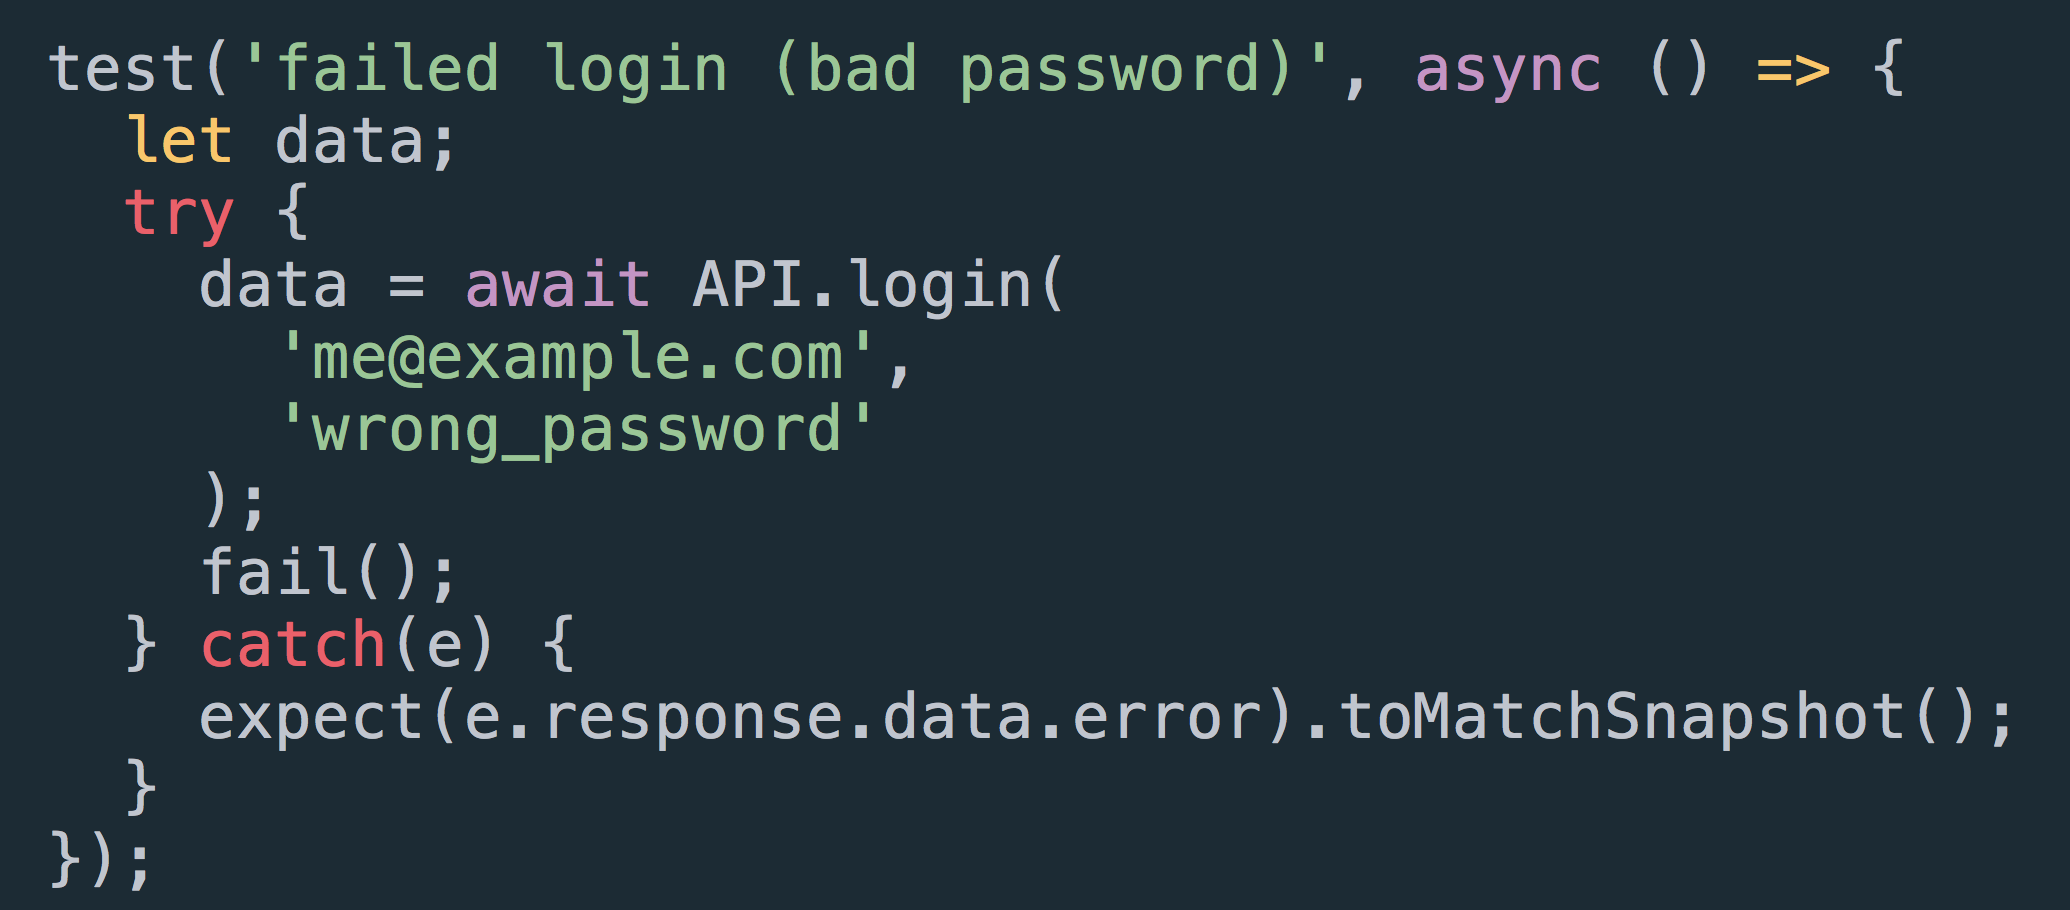
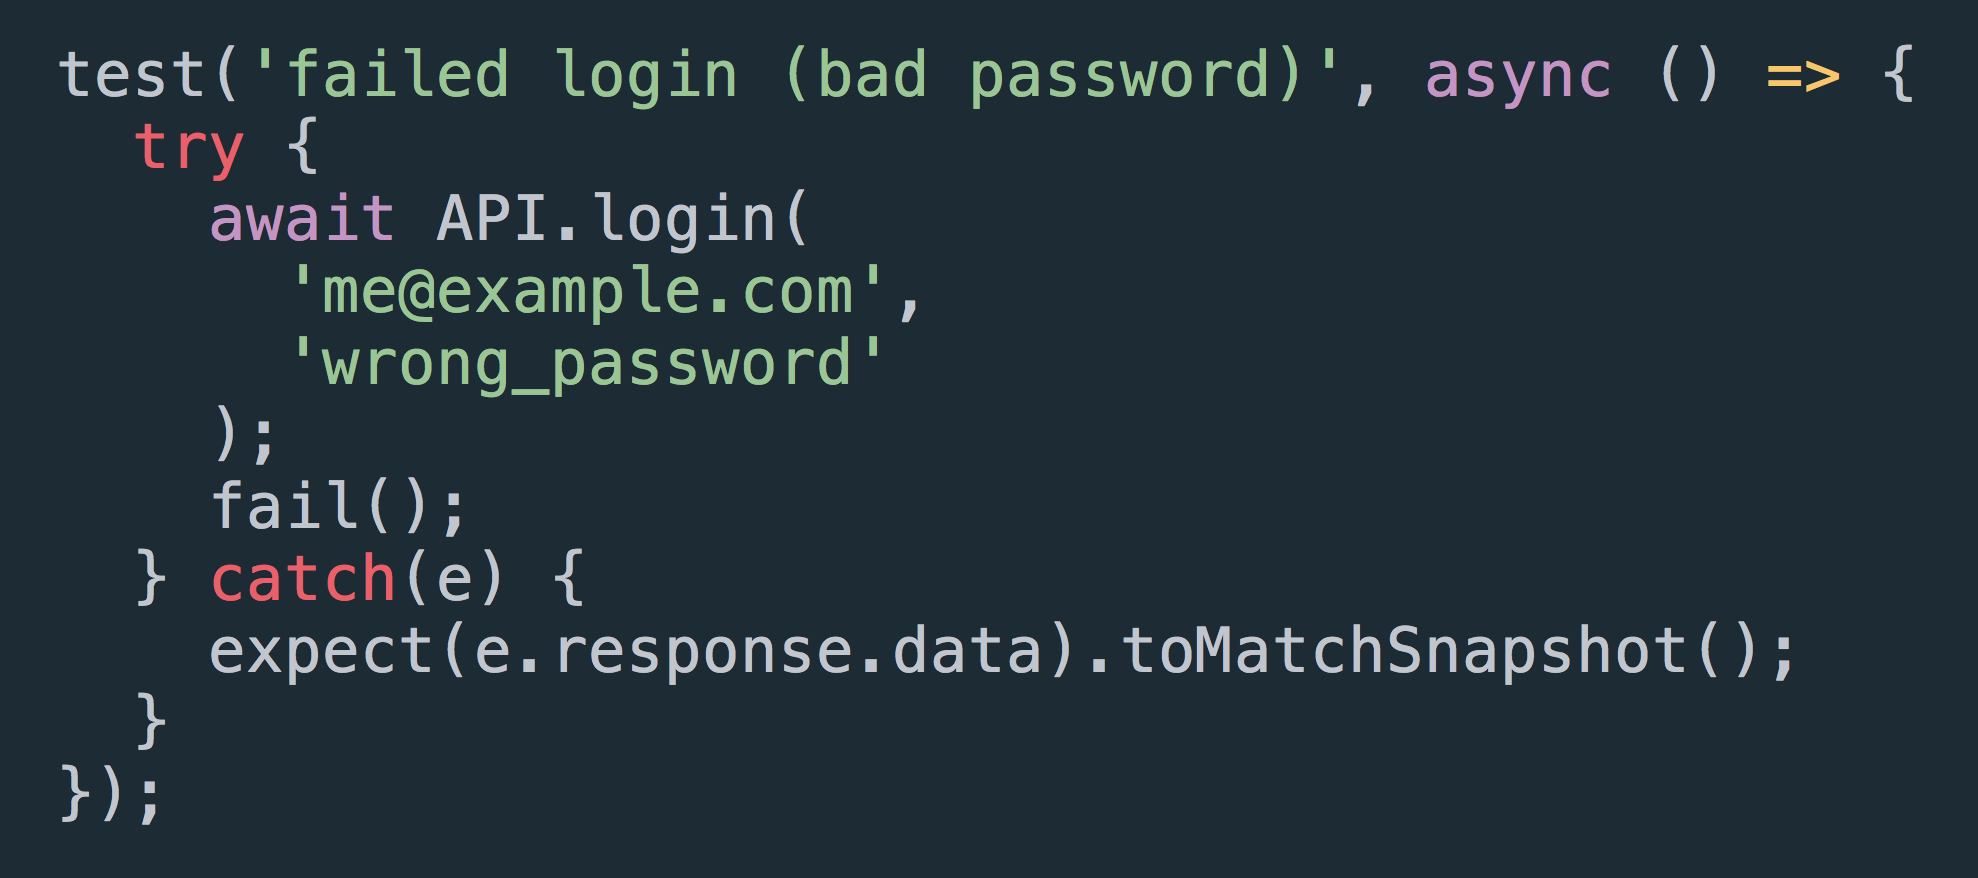
More additions

Changed region(s): [[0.0, 0.0308, 0.9869, 0.9841], [0.956, 0.0615, 0.9869, 0.123]]

diff --git a/style.css b/style.css
@@ -23,3 +23,10 @@
 .bleach {
 	height: 200px;
 }
+
+.pure-react-link {
+	font-size: 16px !important;
+	display: inline-block;
+	position: relative;
+	top: -1em;
+}

diff --git a/slides.md b/slides.md
@@ -14,26 +14,9 @@ Dave Ceddia
 
 Note:
 
-Hey I'm Dave Ceddia, and you can probably tell from the title this is gonna have something to do with snapshot testing!
+Hey I'm Dave Ceddia, and I want to tell you about a simple way you can improve your development process with snapshot testing.
 
-So tell me *NEXT* if this sounds familiar...
-
----
-
-Tell me if this sounds familiar...
-
-
-Note:
-You're having a good day. *NEXT*
-
----
-
-<img src="happy.png" class="plain"/>
-
-Note:
-Traffic was light, you even got a seat on the train, things are looking up.
-
-So you grab yourself a cup of coffee, and pull down the latest backend code.
+So let me set the stage here...
 
 ---
 
@@ -49,7 +32,7 @@ Do a build, start everything up... **NEXT**
 Note:
 And when you go to log in, you type the password wrong.
 
-But instead of... **NEXT** 
+But instead of... **NEXT**
 
 ---
 
@@ -67,7 +50,8 @@ You get this one instead.
 
 Because for some reason the response from the server wasn't what you expected.
 
-So you take a walk over to the backend team, and you're like...
+Well it doesn't seem like it's your code's fault,
+so take a walk over to the backend team...
 
 ---
 
@@ -75,24 +59,26 @@ So you take a walk over to the backend team, and you're like...
 
 Note:
 
-Hey guys, so, what happened to the login error response? It's not an error object anymore?
+Hey guys, so, what happened to the error response on login? It's not an object anymore?
 
 And they go:
 
-"Well we decided to return an array of errors instead of just one. You never know when you might have more than one."
+"Yeah! We changed it. We return an array now, because you never know when we might need to support more than one error."
 
 ---
 
 <img src="unamused.png" class="plain"/>
 
 
-Note: Ok, I guess...
+Note:
 
 "We TOLD you about it in standup"
 
-And your boss is like
+And there was a slack message
 
-boss: yeah there was a Slack message too, didn't you see that?
+And your boss chimes in like:
+
+yeah didn't you see that?
 
 ---
 
@@ -113,6 +99,8 @@ Note:
 
 But wouldn't it be nice if you had some tests that could catch this kind of failure?
 
+Before it ripped your team apart?
+
 ---
 
 ## End-to-end testing?
@@ -121,7 +109,6 @@ But wouldn't it be nice if you had some tests that could catch this kind of fail
   <li class="fragment">Slow to write</li>
   <li class="fragment">Slow to run</li>
   <li class="fragment">Brittle</li>
-  <li class="fragment">Test more than you need</li>
 </ul>
 
 Note:
@@ -149,7 +136,7 @@ Cool, so here's a quick overview if you're not familiar.
 
 ## 1. A React Component
 
-img: component code
+<img src="list-component.png" class="plain" width="50%"/>
 
 Note:
 
@@ -159,6 +146,8 @@ The idea is that if you have a React component like this...
 
 ## 2. A Test
 
+<img src="list-test.png" class="plain" width="50%" />
+
 Note:
 
 You can write a really simple test that renders the component in memory and checks it against a snapshot.
@@ -167,7 +156,7 @@ You can write a really simple test that renders the component in memory and chec
 
 ## 3. Writes a Snapshot
 
-img: snapshot file
+<img src="list-snapshot.png" class="plain" width="50%" />
 
 Note:
 
@@ -182,6 +171,24 @@ Note:
 Then every time after that, when you run the test, it will compare the rendered snapshot with the one on disk, and fail the test if they don't match.
 
 This gives you a quick way to make sure if something works ONCE, it KEEPS WORKING, and alerts you if it breaks.
+
+---
+
+## Aside:
+
+expect(...).toMatchSnapshot()
+
+-----------
+
+1. `npm install enzyme-to-json`
+
+2. Add to package.json:
+
+```json
+"jest": {
+	"snapshotSerializers": ["enzyme-to-json/serializer"]
+}
+```
 
 ---
 
@@ -207,7 +214,7 @@ But: fun fact! You can take snapshots of anything!
 
 Note:
 
-you can snapshot anything
+you can basically snapshot anything
 
 including API responses
 
@@ -220,6 +227,7 @@ including API responses
   <li class="fragment">Rest easy.</li>
 </ol>
 
+
 ---
 
 ## This is for real
@@ -228,6 +236,36 @@ including API responses
 * Not mocked
 * Requires a running server
 * **Clean the data** between tests!
+
+Note:
+
+Here's an example of one of these tests
+
+---
+
+<img src="example-test-2.png" class="plain"/>
+
+<!--
+test('good login', async () => {
+	const response = await API.login(
+		'test-account@example.com',
+		'supersecret!'
+	);
+	expect(response.data).toMatchSnapshot();
+});
+-->
+
+Note:
+
+* it makes a call to the login API
+* then it expects that the response matches the snapshot
+* using async/await
+* the `await` just pauses on that line until the promise resolves
+* the `async` marks the function as asynchronous, so it can contain `await`.
+
+---
+
+<img src="snapshot-login-success.png" class="plain"/>
 
 ---
 
@@ -240,38 +278,24 @@ test('failed login (bad password)', async () => {
     data = await API.login('me@example.com', 'wrong_password');
     fail();
   } catch(e) {
-    expect(e.response.data.error).toMatchSnapshot();
+    expect(e.response.data).toMatchSnapshot();
   }
 });
 -->
 
 ---
 
-!! show the snapshot result !!
+<img src="snapshot-login-error.png" class="plain"/>
 
 ---
 
-<img src="example-test-2.png" class="plain"/>
-
-<!--
-test('good login', async () => {
-	const response = await API.login(
-		'test-account@example.com',
-		'supersecret!'
-	);
-	expect(response).toMatchSnapshot();
-});
--->
-
----
-
-!! show the snapshot result !!
+<img src="snapshot-login-success.png" class="plain"/>
 
 ---
 
 ## Some Things Change
 
-<img src="bleach.jpg" class="plain bleach"/>
+<img src="bleach.jpg" class="fragment plain bleach"/>
 
 Sanitize them.
 
@@ -309,6 +333,10 @@ giving it an array of keys to sanitize
 
 ---
 
+<img src="snapshot-create-order.png" class="plain" width="50%" />
+
+---
+
 <img src="sanitize.png" class="plain"/>
 
 <!--
@@ -335,11 +363,13 @@ function sanitize(data, keys) {
 
 [daveceddia.com](https://daveceddia.com)
 
-<img src="pure-react-3d-cover.svg" class="fragment plain book"/>
+<div style="line-height:0;">
+	<img src="pure-react-3d-cover.svg" class="plain book"/>
+	<br/>
+	<a href="purereact.com" class="pure-react-link">purereact.com</a>
+</div>
 
 <!-- <img src="https://daveceddia.com/images/pure-react-3d-cover.svg" alt="book cover" height="200" style="border: none;"/> -->
 
 Note: dceddia on the interwebz. Blog about React
-
----
 
